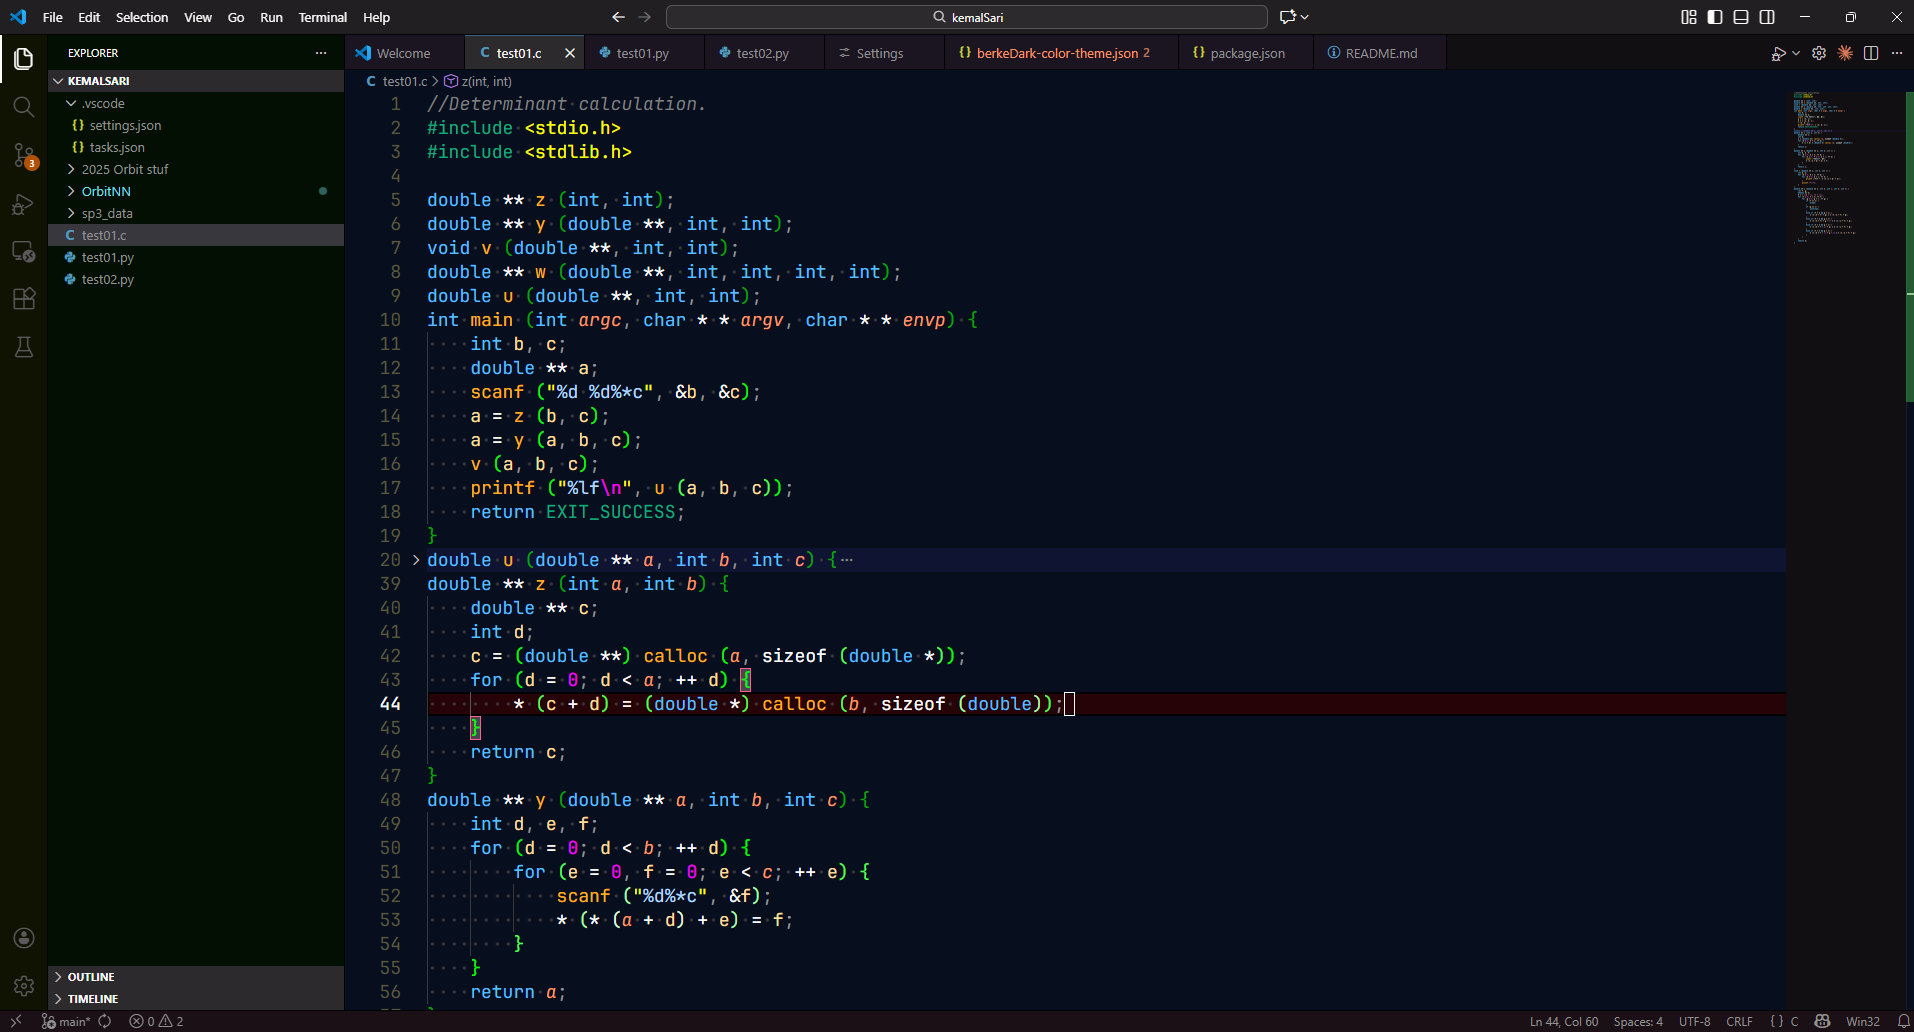
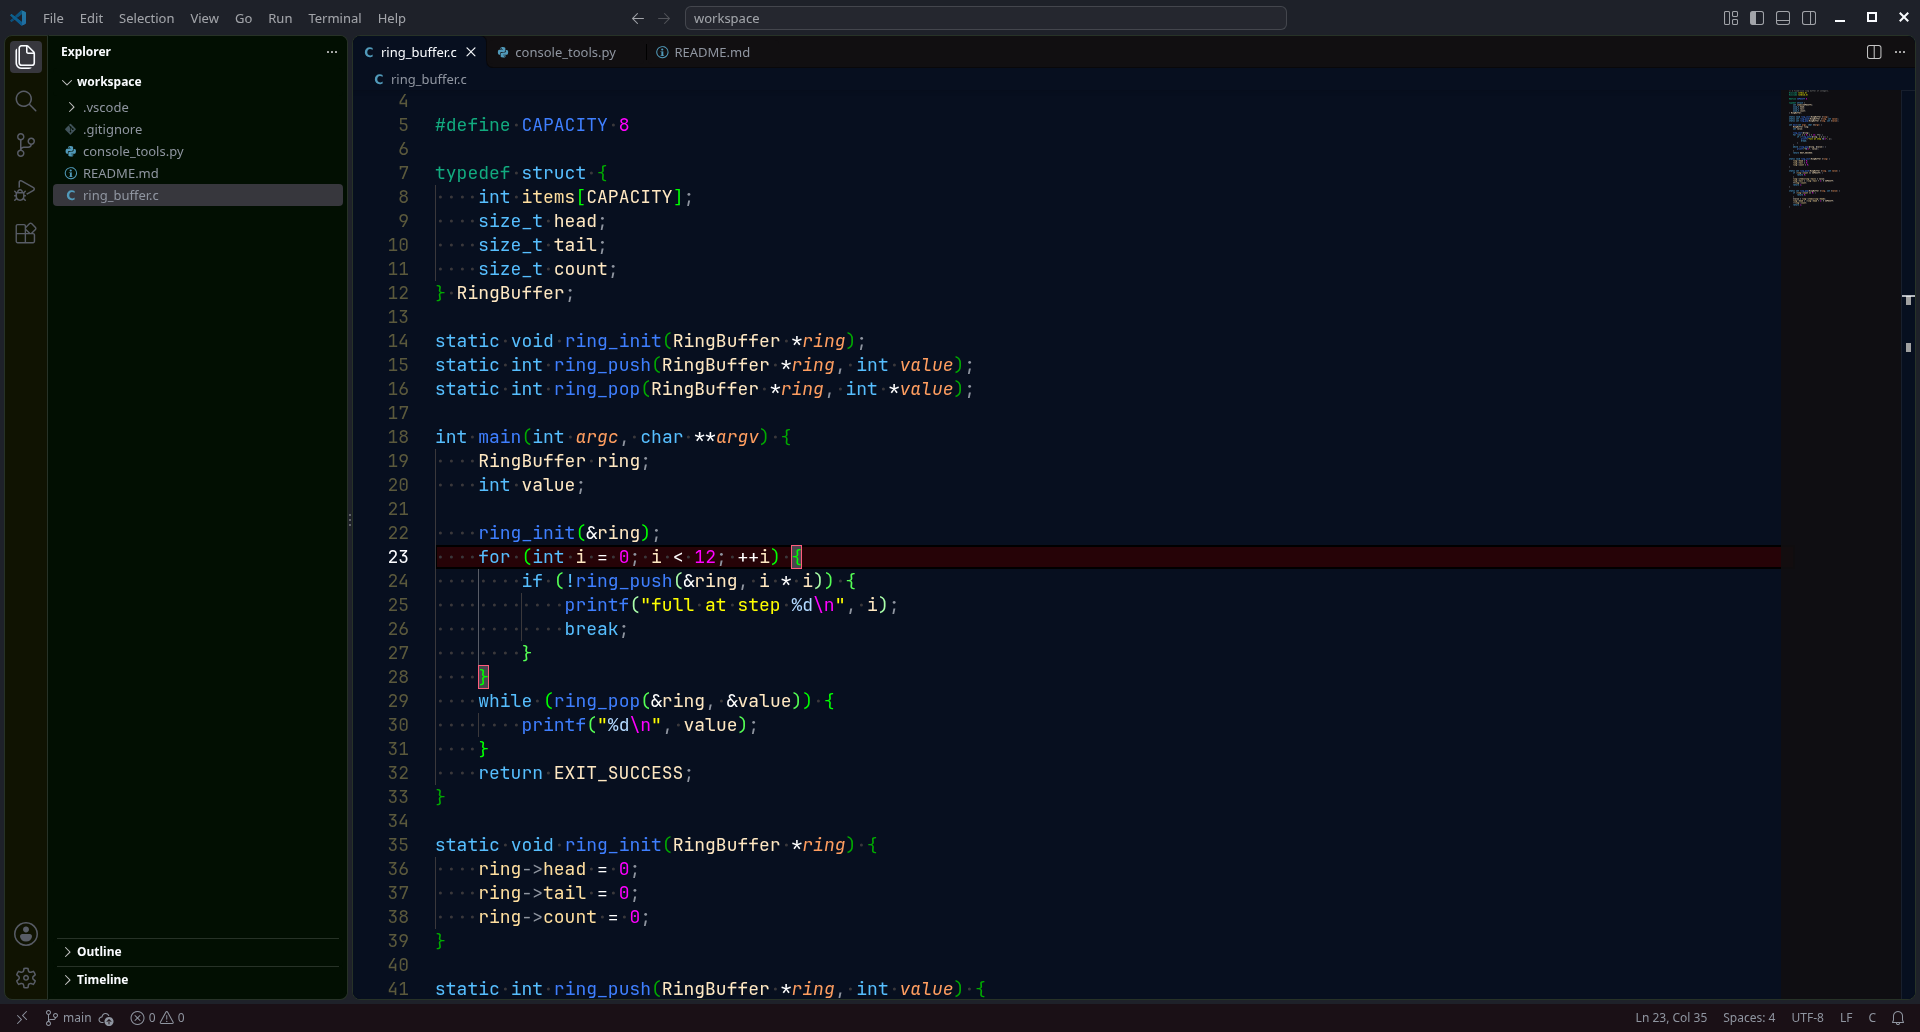
Release 1.2.1: screenshots of the current theme, fixes in the terminal colour interpreter

diff --git a/terminal/src/berkeDark.c b/terminal/src/berkeDark.c
@@ -57,6 +57,7 @@ struct screen {
     bool is_alternate;
     bool is_claude;  /* the full-screen program is Claude Code: its marks and diff colours apply */
     bool has_saved_cursor, is_insert, is_origin; /* the program's states in which numbers are left alone */
+    bool is_no_wrap; /* the program turned automatic wrapping off; a terminal mode, so a new map keeps it */
     bool has_band_changed;
     int rows, columns; /* 0 rows: no map is kept */
     int row, column, saved_row, saved_column;
@@ -334,6 +335,10 @@ static void clear_cells(struct interpreter *in, int row, int from, int to)
 static void scroll_rows(struct screen *sc, int top, int bottom, int count)
 {
     int height = bottom - top + 1;
+
+    if (height <= 0)
+        return;
+
     int amount = abs(count) < height ? abs(count) : height;
     size_t kept = (size_t)(height - amount);
 
@@ -528,8 +533,12 @@ static void print_code_point(struct interpreter *in, unsigned code_point)
         width = 1;
     if (sc->column + width > sc->columns) {
         sc->word_length = 0;
-        sc->column = 0;
-        line_feed(sc);
+        if (sc->is_no_wrap) {
+            sc->column = sc->columns - width; /* the end of the row is written again */
+        } else {
+            sc->column = 0;
+            line_feed(sc);
+        }
     }
     follow_gutter(in, code_point);
     follow_word(sc, code_point, width);
@@ -653,13 +662,24 @@ static void shift_cells(struct interpreter *in, int count)
     }
 }
 
+/* A number in a sequence. A program may print any length of digits; a larger one than this means nothing on a screen. */
+static int read_parameter(const char *p)
+{
+    enum { LARGEST_PARAMETER = 65535 };
+    int value = 0;
+
+    while (isdigit((unsigned char)*p) && value < LARGEST_PARAMETER)
+        value = value * 10 + (*p++ - '0');
+    return value < LARGEST_PARAMETER ? value : LARGEST_PARAMETER;
+}
+
 static void follow_cursor_sequence(struct interpreter *in, unsigned char final)
 {
     struct screen *sc = &in->screen;
     int values[2] = {0, 0}, count = 0;
 
     for (const char *p = in->parameters; count < 2; ++count) {
-        values[count] = atoi(p);
+        values[count] = read_parameter(p);
         p = strchr(p, ';');
         if (p == NULL)
             break;
@@ -678,10 +698,10 @@ static void follow_cursor_sequence(struct interpreter *in, unsigned char final)
     case 'F': sc->row -= amount; sc->column = 0; break;
     case 'G':
     case '`': sc->column = amount - 1; break;
-    case 'd': sc->row = amount - 1; break;
+    case 'd': sc->row = amount - 1 + (sc->is_origin ? sc->top : 0); break;
     case 'H':
     case 'f':
-        sc->row = amount - 1;
+        sc->row = amount - 1 + (sc->is_origin ? sc->top : 0);
         sc->column = (values[1] > 0 ? values[1] : 1) - 1;
         break;
     case 'J': erase_in_display(in, first); break;
@@ -704,25 +724,38 @@ static void follow_cursor_sequence(struct interpreter *in, unsigned char final)
         return;
     case '@': keep_cursor_on_screen(sc); sc->code_from[sc->row] = -1; shift_cells(in, amount); return;
     case 'P': keep_cursor_on_screen(sc); sc->code_from[sc->row] = -1; shift_cells(in, -amount); return;
-    case 'L': scroll_rows(sc, sc->row, sc->bottom, -amount); break;
-    case 'M': scroll_rows(sc, sc->row, sc->bottom, amount); break;
+    case 'L':
+    case 'M':
+        /* Measured on foot: nothing happens outside the region, a pending wrap stays; inside it the cursor goes to the start of its row. */
+        if (sc->row < sc->top || sc->row > sc->bottom)
+            return;
+        scroll_rows(sc, sc->row, sc->bottom, final == 'L' ? -amount : amount);
+        sc->column = 0;
+        break;
     case 'S': scroll_rows(sc, sc->top, sc->bottom, amount); break;
     case 'T': scroll_rows(sc, sc->top, sc->bottom, -amount); break;
-    case 'r':
+    case 'r': {
+        /* Measured on foot: a bottom past the screen is the last row; a region that is no region is ignored, a pending wrap stays. */
+        int bottom = (values[1] > 0 && values[1] < sc->rows ? values[1] : sc->rows) - 1;
+
+        if (amount - 1 >= bottom)
+            return;
         sc->top = amount - 1;
-        sc->bottom = (values[1] > 0 ? values[1] : sc->rows) - 1;
-        if (sc->top < 0 || sc->bottom >= sc->rows || sc->top >= sc->bottom) {
-            sc->top = 0;
-            sc->bottom = sc->rows - 1;
-        }
-        sc->row = sc->column = 0;
+        sc->bottom = bottom;
+        sc->row = sc->is_origin ? sc->top : 0;
+        sc->column = 0;
         break;
+    }
     case 's':
+        if (in->length != 0 && !isdigit((unsigned char)in->parameters[0]))
+            return; /* a private sequence; measured on foot: plain CSI s and u save and restore, with or without a number */
         sc->saved_row = sc->row;
         sc->saved_column = sc->column;
         sc->has_saved_cursor = true;
         break;
     case 'u':
+        if (in->length != 0 && !isdigit((unsigned char)in->parameters[0]))
+            return;
         sc->row = sc->saved_row;
         sc->column = sc->saved_column;
         sc->has_saved_cursor = false;
@@ -738,6 +771,12 @@ static void follow_cursor_sequence(struct interpreter *in, unsigned char final)
             sc->is_insert = final == 'h';
         break;
     default: break;
+    }
+    if (sc->is_origin) { /* measured on foot: in origin mode every move stops at the region's edges */
+        if (sc->row < sc->top)
+            sc->row = sc->top;
+        else if (sc->row > sc->bottom)
+            sc->row = sc->bottom;
     }
     keep_cursor_on_screen(sc);
 }
@@ -985,8 +1024,8 @@ static void draw_box(struct interpreter *in)
     }
     for (int row = 0; row < sc->rows; ++row)
         has_work = has_work || wanted[row] != sc->edges[row];
-    if (!has_work)
-        return;
+    if (!has_work || sc->has_saved_cursor || sc->is_insert || sc->is_origin)
+        return; /* drawing then would take the program's saved cursor, or land elsewhere */
 
     put_text("\033[?2026h\0337");
     for (int row = 0; row < sc->rows; ++row) {
@@ -1036,7 +1075,7 @@ static void apply_private_modes(struct interpreter *in, bool is_on)
     struct screen *sc = &in->screen;
 
     for (const char *p = in->parameters; p != NULL; p = strchr(p, ';') ? strchr(p, ';') + 1 : NULL) {
-        int mode = atoi(p);
+        int mode = read_parameter(p);
 
         if (mode == 1049 || mode == 1047 || mode == 47) {
             sc->is_alternate = is_on;
@@ -1044,6 +1083,10 @@ static void apply_private_modes(struct interpreter *in, bool is_on)
             clear_map(sc);
         } else if (mode == 6) {
             sc->is_origin = is_on;
+            sc->row = is_on ? sc->top : 0; /* measured on foot: either way the cursor goes home */
+            sc->column = 0;
+        } else if (mode == 7) {
+            sc->is_no_wrap = !is_on;
         } else if (mode == 2026 && !is_on && has_map(sc)) {
             draw_box(in);
         }
@@ -1063,13 +1106,15 @@ static void finish_control_sequence(struct interpreter *in, unsigned char final)
         return;
     }
 
-    if (final == 'm')
+    if (final == 'm') {
         apply_style_sequence(in);
-    else if (final == 's' && in->length == 0)
+        return;
+    }
+    if (final == 's' && in->length == 0)
         in->saved_style = in->style;
     else if (final == 'u' && in->length == 0)
         in->style = in->saved_style;
-    else if (has_map(&in->screen))
+    if (has_map(&in->screen))
         follow_cursor_sequence(in, final);
 }
 
@@ -1115,6 +1160,7 @@ static void track(struct interpreter *in, unsigned char c)
             in->style = (struct style){0};
             clear_map(&in->screen);
             in->screen.is_alternate = false;
+            in->screen.is_no_wrap = false;
         } else if (c == 'M' && has_map(&in->screen)) {
             reverse_index(&in->screen);
         } else if (c == 'D' && has_map(&in->screen)) {

diff --git a/terminal/tests/run_tests.py b/terminal/tests/run_tests.py
@@ -108,6 +108,9 @@ BOX_CASES = [
      ON_SCREEN + row_at(2) + b"x" + row_at(3) + BAND + b"      " + E + b"[49m" + row_at(4) + b"y" + FRAME_END,
      ON_SCREEN + row_at(2) + b"x" + row_at(3) + BAND + b"      " + E + b"[49m" + row_at(4) + b"y" + FRAME_END + OPEN
      + row_at(3) + SIDE + "▏".encode() + row_at(3, 6) + "▕".encode() + CLOSE),
+    ("no box while the program holds a saved cursor",
+     ON_SCREEN + E + b"7" + row_at(3) + BAND + b"  ab  " + E + b"[49m" + FRAME_END,
+     ON_SCREEN + E + b"7" + row_at(3) + BAND + b"  ab  " + E + b"[49m" + FRAME_END),
     ("nothing without the band", ON_SCREEN + row_at(3) + b"ab" + FRAME_END, ON_SCREEN + row_at(3) + b"ab" + FRAME_END),
     ("nothing on the normal screen", row_at(3) + BAND + b"      " + FRAME_END, row_at(3) + BAND + b"      " + FRAME_END),
 ]
@@ -203,6 +206,34 @@ NUMBER_CASES = [
     ("nothing in insert mode", REPLY + E + b"[4h42 " + E + b"[4l", REPLY + E + b"[4h42 " + E + b"[4l"),
     ("nothing in origin mode", REPLY + E + b"[?6h" + row_at(2, 3) + b"42 ", REPLY + E + b"[?6h" + row_at(2, 3) + b"42 "),
     ("a repeated character moves the column", REPLY + b"-" + E + b"[3b 42 ", REPLY + b"-" + E + b"[3b 42 " + painted(2, 8, b"42")),
+    # The screen's behaviour in these cases was measured on foot (2026-11-08).
+    ("lines deleted below the scrolling region change nothing",
+     ON_SCREEN + E + b"[2;3r" + row_at(5, 4) + E + b"[M42 ", ON_SCREEN + E + b"[2;3r" + row_at(5, 4) + E + b"[M42 " + painted(5, 4, b"42")),
+    ("lines inserted below the scrolling region change nothing",
+     ON_SCREEN + E + b"[2;3r" + row_at(5, 4) + E + b"[L42 ", ON_SCREEN + E + b"[2;3r" + row_at(5, 4) + E + b"[L42 " + painted(5, 4, b"42")),
+    ("lines inserted inside the region send the cursor to the row's start",
+     ON_SCREEN + row_at(3, 9) + E + b"[L42 ", ON_SCREEN + row_at(3, 9) + E + b"[L42 " + painted(3, 1, b"42")),
+    ("the cursor saved and restored with CSI s and u",
+     ON_SCREEN + row_at(3, 4) + E + b"[s" + row_at(5, 9) + E + b"[u42 ",
+     ON_SCREEN + row_at(3, 4) + E + b"[s" + row_at(5, 9) + E + b"[u42 " + painted(3, 4, b"42")),
+    ("nothing while the program holds a cursor saved with CSI s",
+     ON_SCREEN + row_at(3, 4) + E + b"[s42 ", ON_SCREEN + row_at(3, 4) + E + b"[s42 "),
+    ("no wrapping once the program has turned it off",
+     ON_SCREEN + E + b"[?7l" + row_at(2, 39) + b"abcd 42 ", ON_SCREEN + E + b"[?7l" + row_at(2, 39) + b"abcd 42 "),
+    ("a region that is no region is ignored",
+     ON_SCREEN + E + b"[2;5r" + row_at(4, 3) + E + b"[5;2r42 ", ON_SCREEN + E + b"[2;5r" + row_at(4, 3) + E + b"[5;2r42 " + painted(4, 3, b"42")),
+    ("leaving origin mode sends the cursor home",
+     ON_SCREEN + row_at(4, 3) + E + b"[?6h" + E + b"[?6l42 ", ON_SCREEN + row_at(4, 3) + E + b"[?6h" + E + b"[?6l42 " + painted(1, 1, b"42")),
+    ("a position in origin mode is relative to the region",
+     ON_SCREEN + E + b"[3;5r" + E + b"[?6h" + row_at(1, 1) + b"abc" + E + b"[?6l" + row_at(3, 4) + b"4 ",
+     ON_SCREEN + E + b"[3;5r" + E + b"[?6h" + row_at(1, 1) + b"abc" + E + b"[?6l" + row_at(3, 4) + b"4 "),
+    ("a pending wrap stays through a line deletion that does nothing",
+     ON_SCREEN + E + b"[2;3r" + row_at(5, 40) + b"x" + E + b"[M42 ", ON_SCREEN + E + b"[2;3r" + row_at(5, 40) + b"x" + E + b"[M42 " + painted(6, 1, b"42")),
+    ("a pending wrap stays through a region that is no region",
+     ON_SCREEN + row_at(5, 40) + b"x" + E + b"[5;2r42 ", ON_SCREEN + row_at(5, 40) + b"x" + E + b"[5;2r42 " + painted(6, 1, b"42")),
+    ("very large numbers in sequences do no harm",
+     ON_SCREEN + E + b"[2147483647C" + E + b"[2147483647B" + E + b"[2147483647X" + E + b"[" + b"9" * 200 + b"D\r42 ",
+     ON_SCREEN + E + b"[2147483647C" + E + b"[2147483647B" + E + b"[2147483647X" + E + b"[" + b"9" * 200 + b"D\r42 " + painted(6, 1, b"42")),
 ]
 
 

diff --git a/CHANGELOG.md b/CHANGELOG.md
@@ -4,6 +4,15 @@ All notable changes to the "berkeDark" extension will be documented in this file
 
 ## [Unreleased]
 
+## [1.2.1] - 2026-11-09
+
+### Changed
+- The README's screenshots now show the current theme, and the repeated Python preview is gone
+
+### Fixed
+- Terminal colour interpreter: writes outside its arrays with insert and delete line below the scrolling region, and overlong numeric parameters
+- Terminal colour interpreter: follows the terminal more exactly with cursor save and restore, automatic wrapping off, invalid scrolling regions and origin mode
+
 ## [1.2.0] - 2026-11-08
 
 ### Added

diff --git a/README.md b/README.md
@@ -11,7 +11,6 @@ A complete dark environment built around the deep blue of the ocean. One look fo
 ![README Preview](./preview-readme.png)
 ![Python Preview](./preview-python.png)
 ![C/C++ Preview](./preview-c.png)
-![Preview](https://raw.githubusercontent.com/BerkeGulmen/berkedark-vscode/main/preview-python.png)
 
 ## Features
 - Easy on the eyes - Carefully balanced contrast for long coding sessions
